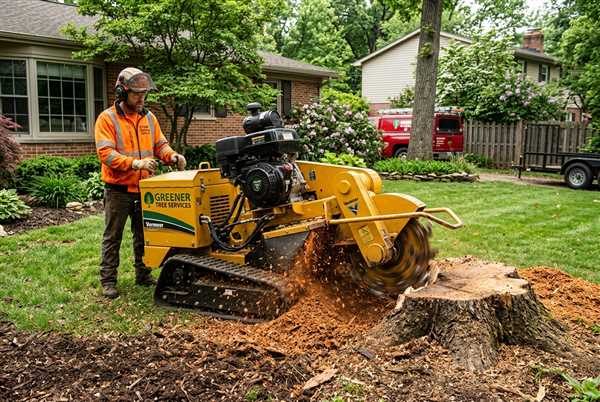
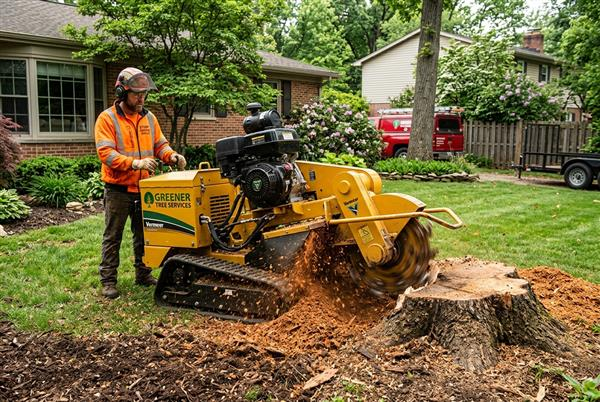
Performance: apply cache busting query parameters (?v=3) to static image assets to force immediate browser cache invalidation and load clear HD images

diff --git a/src/App.jsx b/src/App.jsx
@@ -226,7 +226,7 @@ export default function App() {
       title: "Tree Assessment & Consultation",
       desc: "Every tree has different needs. Our certified arborist evaluates tree health, structural integrity, soil quality, and potential risks to provide tailored care recommendations.",
       icon: "assessment",
-      img: "assets/service_assessment.jpg",
+      img: "assets/service_assessment.jpg?v=3",
       points: [
         "Evaluation of structural hazards and disease",
         "Soil condition and root flare inspections",
@@ -238,7 +238,7 @@ export default function App() {
       title: "Precision Tree Pruning & Trimming",
       desc: "Proper pruning helps trees grow stronger while improving their overall appearance and safety. Our crew uses ISA canopy techniques to shape your trees beautifully.",
       icon: "pruning",
-      img: "assets/service_pruning.jpg",
+      img: "assets/service_pruning.jpg?v=3",
       points: [
         "Crown thinning for improved air & light flow",
         "Deadwooding and safety clearing of heavy branches",
@@ -250,7 +250,7 @@ export default function App() {
       title: "Safe Tree Removal & Felling",
       desc: "When a tree becomes dangerous, diseased, or unwanted, professional removal is the best path. We employ top rigging safety systems to fell trees with minimal landscape impact.",
       icon: "removal",
-      img: "assets/service_removal.jpg",
+      img: "assets/service_removal.jpg?v=3",
       points: [
         "Hazardous and leaning tree removal",
         "Storm-damaged structure extraction",
@@ -262,7 +262,7 @@ export default function App() {
       title: "Stump & Root Management",
       desc: "Old stumps can invite pests and ruin lawn layouts. We use high-powered hydraulic grinders to pulverize stumps below grade, leaving space ready for planting.",
       icon: "stump",
-      img: "assets/service_stump.jpg",
+      img: "assets/service_stump.jpg?v=3",
       points: [
         "Deep root grinding down to 12 inches below soil",
         "Yard and root zone preparation for replanting",
@@ -274,7 +274,7 @@ export default function App() {
       title: "Emergency Tree Response",
       desc: "Unexpected tree failures require immediate, skilled intervention. Our emergency crew is ready to secure your roofline, vehicles, and driveways as soon as possible.",
       icon: "emergency",
-      img: "assets/service_emergency.jpg",
+      img: "assets/service_emergency.jpg?v=3",
       points: [
         "Immediate hazard stabilization",
         "Storm cleanup and damage control",
@@ -331,7 +331,7 @@ export default function App() {
       <header className={`header-light ${scrolled ? 'scrolled' : ''}`}>
         <div className="container nav-bar">
           <a href="#home" className="brand">
-            <img src="assets/logo.jpg" alt="Newark Tree Care Logo" width="42" height="42" />
+            <img src="assets/logo.jpg?v=3" alt="Newark Tree Care Logo" width="42" height="42" />
             <div>
               <div className="brand-text-name">Newark Tree Care</div>
               <div className="brand-text-sub">Expert Tree Solutions</div>
@@ -426,11 +426,11 @@ export default function App() {
 
            <div className="hero-composition-wrapper">
             <div className="hero-main-frame">
-              <img src="assets/hero_arborist.jpg" alt="Professional Arborist at work in Newark" width="800" height="446" />
+              <img src="assets/hero_arborist.jpg?v=3" alt="Professional Arborist at work in Newark" width="800" height="446" />
             </div>
             
             <div className="hero-secondary-card">
-              <img src="assets/estate.jpg" alt="Beautiful Estate Tree Care" width="800" height="446" />
+              <img src="assets/estate.jpg?v=3" alt="Beautiful Estate Tree Care" width="800" height="446" />
               <div className="hero-secondary-badge">
                 <span>✓ Property Care Excellence</span>
               </div>
@@ -478,7 +478,7 @@ export default function App() {
               <div className="overview-asymmetric-photo">
                 <div className="photo-backing-card"></div>
                 <div className="photo-front-frame">
-                  <img src="assets/tree_services.jpg" alt="Our arborist crew operating tree chipping equipment safely" width="600" height="448" />
+                  <img src="assets/tree_services.jpg?v=3" alt="Our arborist crew operating tree chipping equipment safely" width="600" height="448" />
                 </div>
               </div>
               
@@ -918,7 +918,7 @@ export default function App() {
           <div className="footer-grid-4">
             <div>
               <a href="#home" className="brand" style={{ marginBottom: '1.25rem' }}>
-                <img src="assets/logo.jpg" alt="Newark Tree Care Logo" width="42" height="42" />
+                <img src="assets/logo.jpg?v=3" alt="Newark Tree Care Logo" width="42" height="42" />
                 <div>
                   <div className="brand-text-name" style={{ color: '#ffffff' }}>Newark Tree Care</div>
                   <div className="brand-text-sub" style={{ color: '#2dd4bf' }}>Expert Tree Solutions</div>
